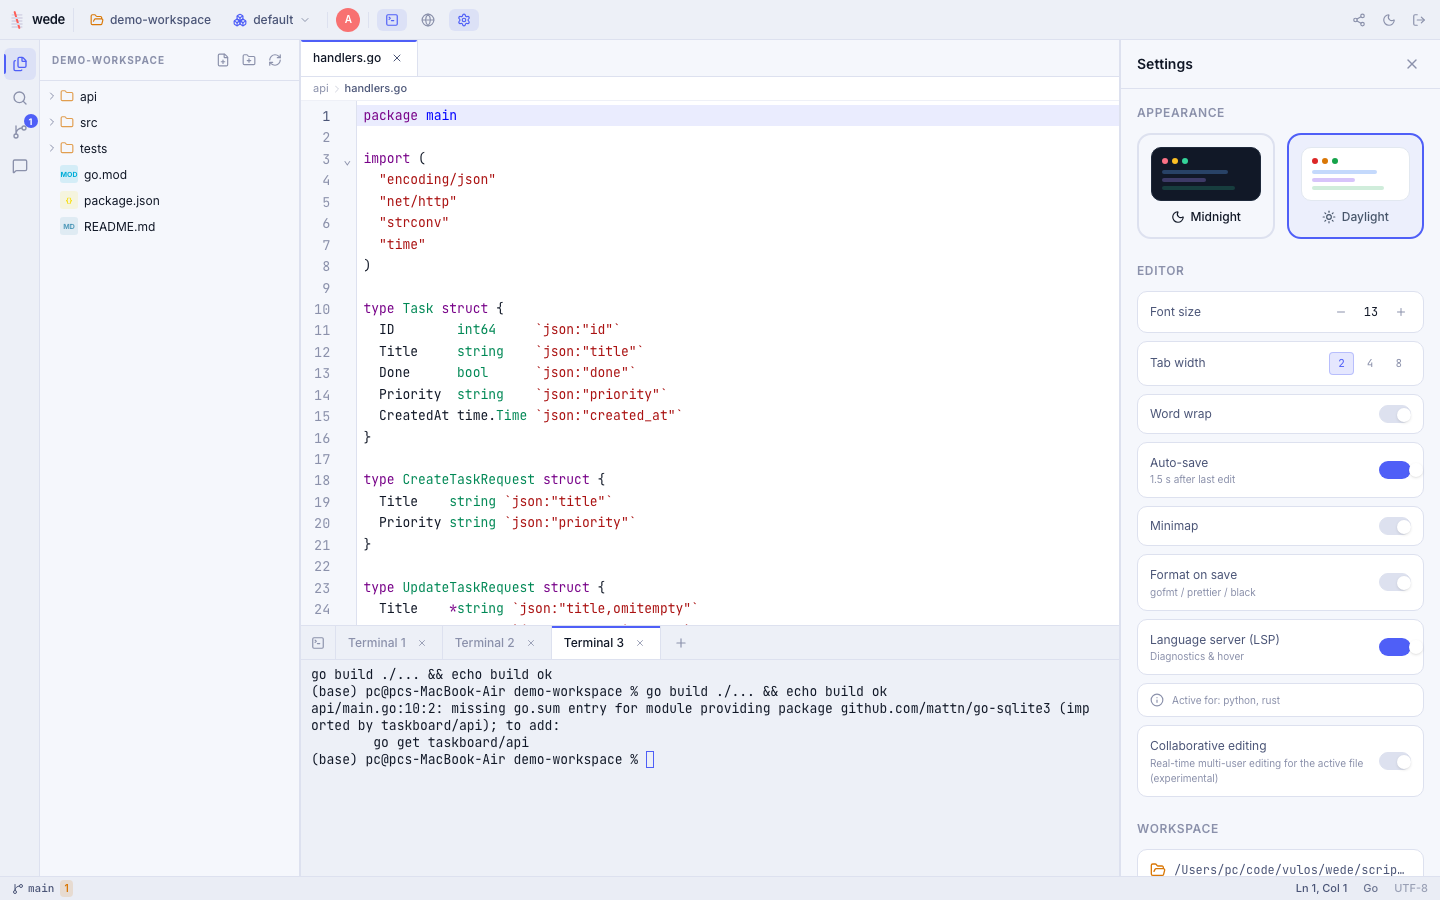
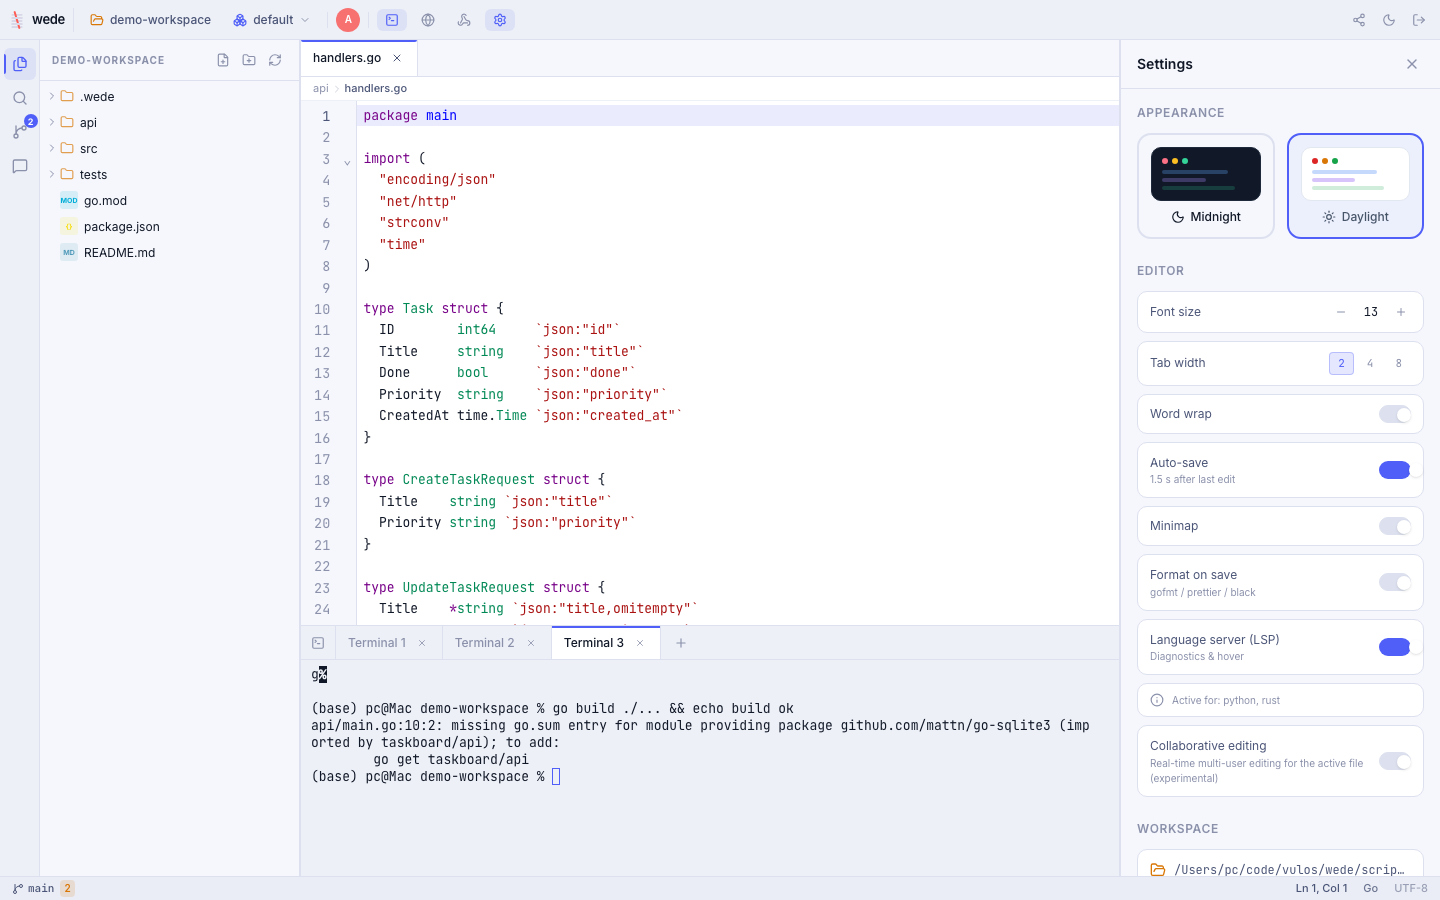
feat: .wede-location picker UI + API-client load fix + screenshots/README
- WedeLocation.jsx: owner-only Settings control to choose which workspace
  folder hosts .wede (lists candidate folders, moves on change); threaded
  workspaceId through Settings. Closes the UI gap on the .wede relocation.
- ApiClient: saved requests are stored/read as JSON objects (parseReq handles
  object or string) — fixes loading a saved request (was defaulting to GET).
- Screenshotter: seed sample API requests + environment; new apiclient.png
  (real GitHub API request -> 200 JSON response, populated collections).
- README: embed apiclient.png + add the API Client feature row.

Changed region(s): [[0.2188, 0.7467, 0.75, 0.8711], [0.0312, 0.1867, 0.125, 0.28]]

diff --git a/src/components/WedeLocation.jsx b/src/components/WedeLocation.jsx
@@ -1,0 +1,65 @@
+import { useState, useEffect, useCallback } from 'react'
+import { FolderCog, Check, Loader2 } from 'lucide-react'
+
+// WedeLocation — owner-only control to choose which workspace folder hosts the
+// .wede directory (chat history, saved API requests). Changing it moves .wede.
+export default function WedeLocation({ workspaceId, authFetch }) {
+  const [state, setState] = useState(null) // { host, dir, folders }
+  const [busy, setBusy] = useState(false)
+  const [err, setErr] = useState(null)
+  const [saved, setSaved] = useState(false)
+
+  const base = workspaceId ? `/api/workspaces/${encodeURIComponent(workspaceId)}/wede-location` : null
+
+  const load = useCallback(async () => {
+    if (!base) return
+    try {
+      const r = await authFetch(base)
+      setState(await r.json())
+    } catch { /* leave hidden */ }
+  }, [base, authFetch])
+
+  useEffect(() => { load() }, [load])
+
+  const setHost = async (host) => {
+    if (!base) return
+    setBusy(true); setErr(null); setSaved(false)
+    try {
+      const r = await authFetch(base, {
+        method: 'PUT', headers: { 'Content-Type': 'application/json' }, body: JSON.stringify({ host }),
+      })
+      const data = await r.json()
+      if (!r.ok) setErr(data.error || 'Failed to move')
+      else { setState(data); setSaved(true); setTimeout(() => setSaved(false), 1500) }
+    } catch { setErr('Request failed') } finally { setBusy(false) }
+  }
+
+  if (!state) return null
+
+  return (
+    <div>
+      <h3 className="text-xs font-semibold uppercase tracking-wider text-text-muted mb-3 flex items-center gap-1.5">
+        <FolderCog className="w-3.5 h-3.5" /> Workspace data (.wede)
+      </h3>
+      <p className="text-[11px] text-text-muted leading-relaxed mb-2">
+        Chat history and saved API requests live in <code className="text-text-secondary">.wede/</code>.
+        Pick which project folder hosts it so it commits with that repo — wede moves the contents when you change this.
+      </p>
+      <div className="flex items-center gap-2">
+        <select
+          value={state.host || ''}
+          onChange={(e) => setHost(e.target.value)}
+          disabled={busy}
+          className="flex-1 bg-bg-input border border-border rounded-md px-2.5 py-1.5 text-[12px] text-text-primary focus:outline-none focus:border-accent/60 disabled:opacity-50"
+        >
+          <option value="">/ (workspace root)</option>
+          {(state.folders || []).map((f) => <option key={f} value={f}>{f}/</option>)}
+        </select>
+        {busy && <Loader2 className="w-4 h-4 text-text-muted animate-spin shrink-0" />}
+        {saved && <Check className="w-4 h-4 text-green shrink-0" />}
+      </div>
+      <p className="text-[10px] text-text-muted mt-1.5 font-mono truncate" title={state.dir}>{state.dir}</p>
+      {err && <div className="text-[11px] text-red mt-1">{err}</div>}
+    </div>
+  )
+}

diff --git a/src/components/ApiClient.jsx b/src/components/ApiClient.jsx
@@ -24,6 +24,14 @@ const blankRequest = () => ({
   body: { type: 'none', content: '', form: [] },
 })
 
+// The server returns a saved request as a JSON object (RawMessage); tolerate a
+// string too in case of older/hand-written files.
+function parseReq(raw) {
+  if (!raw) return {}
+  if (typeof raw === 'object') return raw
+  try { return JSON.parse(raw) } catch { return {} }
+}
+
 function subst(str, vars) {
   return (str || '').replace(/\{\{([^}]+)\}\}/g, (_, k) => {
     const key = k.trim()
@@ -109,8 +117,7 @@ function TreeNode({ node, depth, onOpen, onDelete, readOnly, activePath }) {
       </div>
     )
   }
-  let m = 'GET'
-  try { m = JSON.parse(node.request || '{}').method || 'GET' } catch { /* ignore */ }
+  const m = parseReq(node.request).method || 'GET'
   return (
     <div className={`flex items-center gap-1.5 px-1 py-1 rounded cursor-pointer group ${activePath === node.path ? 'bg-bg-active' : 'hover:bg-bg-hover'}`}
       style={{ paddingLeft: depth * 12 + 16 }} onClick={() => onOpen(node)}>
@@ -175,7 +182,7 @@ export default function ApiClient({ workspaceId, authFetch, readOnly = false }) 
     }
     await authFetch(`${base}/item`, {
       method: 'PUT', headers: { 'Content-Type': 'application/json' },
-      body: JSON.stringify({ type: 'request', path, request: JSON.stringify({ ...req, name: path.split('/').pop() }) }),
+      body: JSON.stringify({ type: 'request', path, request: { ...req, name: path.split('/').pop() } }),
     })
     load()
   }
@@ -191,12 +198,9 @@ export default function ApiClient({ workspaceId, authFetch, readOnly = false }) 
   }
 
   const openRequest = (node) => {
-    try {
-      const r = JSON.parse(node.request || '{}')
-      setReq({ ...blankRequest(), ...r })
-      setSavePath(node.path.replace(/\.json$/, ''))
-      setResp(null); setErr(null)
-    } catch { /* ignore */ }
+    setReq({ ...blankRequest(), ...parseReq(node.request) })
+    setSavePath(node.path.replace(/\.json$/, ''))
+    setResp(null); setErr(null)
   }
 
   const deleteItem = async (node) => {

diff --git a/src/components/Settings.jsx b/src/components/Settings.jsx
@@ -3,8 +3,9 @@ import { Moon, Sun, FolderOpen, Info, Minus, Plus, X } from 'lucide-react'
 import { useTheme } from '../hooks/useTheme'
 import Logo from './Logo'
 import TunnelSettings from './TunnelSettings'
+import WedeLocation from './WedeLocation'
 
-export default function Settings({ visible, onClose, onOpenFolder, workspace, editorSettings, onEditorSettingsChange, lspAvailable, authFetch, role }) {
+export default function Settings({ visible, onClose, onOpenFolder, workspace, editorSettings, onEditorSettingsChange, lspAvailable, authFetch, role, workspaceId }) {
   const { setTheme, isDark } = useTheme()
 
   // Close on Escape.
@@ -229,6 +230,13 @@ export default function Settings({ visible, onClose, onOpenFolder, workspace, ed
             </button>
           </div>
         </div>
+
+        {/* Workspace data location (owner only) */}
+        {role === 'owner' && authFetch && workspaceId && (
+          <div>
+            <WedeLocation workspaceId={workspaceId} authFetch={authFetch} />
+          </div>
+        )}
 
         {/* Public access (owner only) */}
         {role === 'owner' && authFetch && (

diff --git a/src/components/IDE.jsx b/src/components/IDE.jsx
@@ -737,6 +737,7 @@ export default function IDE({ token, authFetch, onLogout, workspace, recents, on
                 onClose={() => setShowSettings(false)}
                 authFetch={authFetch}
                 role={role}
+                workspaceId={workspaceId}
                 visible
                 onOpenFolder={() => setShowFolderPicker(true)}
                 workspace={workspace}
@@ -967,6 +968,7 @@ export default function IDE({ token, authFetch, onLogout, workspace, recents, on
                 onClose={() => setShowSettings(false)}
                 authFetch={authFetch}
                 role={role}
+                workspaceId={workspaceId}
                 visible
                 onOpenFolder={() => setShowFolderPicker(true)}
                 workspace={workspace}

diff --git a/README.md b/README.md
@@ -42,14 +42,14 @@ One host serves many people: open multiple projects as **workspaces**, invite ot
 </tr>
 <tr>
 <td><img src="docs/screenshots/git_graph.png" alt="wede visual git commit graph with branches and merges" width="400"><br><em>Git commit graph — branches, merges &amp; refs</em></td>
+<td><img src="docs/screenshots/apiclient.png" alt="wede built-in Postman-style API client" width="400"><br><em>Built-in API client (Postman-style)</em></td>
+</tr>
+<tr>
 <td><img src="docs/screenshots/terminals.png" alt="wede multiple terminals per workspace" width="400"><br><em>Multiple terminals per workspace</em></td>
-</tr>
-<tr>
 <td><img src="docs/screenshots/chat.png" alt="wede live workspace chat with public and private channels" width="400"><br><em>Live chat — public &amp; private channels</em></td>
-<td><img src="docs/screenshots/search.png" alt="wede workspace search panel" width="400"><br><em>Comprehensive search (regex, globs, replace)</em></td>
 </tr>
 <tr>
-<td><img src="docs/screenshots/terminal.png" alt="wede terminal panel" width="400"><br><em>Full PTY terminal</em></td>
+<td><img src="docs/screenshots/search.png" alt="wede workspace search panel" width="400"><br><em>Comprehensive search (regex, globs, replace)</em></td>
 <td><img src="docs/screenshots/settings.png" alt="wede settings panel" width="400"><br><em>Settings — editor, LSP, themes, tunnel</em></td>
 </tr>
 <tr>
@@ -93,6 +93,7 @@ wede turns one machine into a shared workspace for your whole team — no accoun
 | **Git Client** | VS Code-grade: visual commit graph with branches &amp; merges, blame, side-by-side diff, staging + per-hunk staging, cherry-pick / revert / reset / merge, tags, branch management, push/pull/fetch, stash, merge-conflict resolution. |
 | **Comprehensive Search** | Workspace-wide search with regex, case &amp; whole-word toggles, include/exclude globs, context lines, and a filename mode — plus search &amp; replace across files. |
 | **Built-in Browser** | Preview your running web app in an embedded browser tab without leaving the IDE. |
+| **API Client** | Postman-style HTTP client: methods, params, headers, auth (bearer/basic/api-key), JSON/form/raw bodies, environments with `{{variables}}`, and a server-side send (no CORS). Requests are saved as files under `.wede/requests/` — committable and shareable. |
 | **LSP** | Language Server Protocol proxy for diagnostics, hover, completion, and go-to-definition. Supports gopls, typescript-language-server, pylsp, rust-analyzer. |
 | **Format on Save** | Auto-formats on Ctrl/Cmd+S: `gofmt` for Go, `prettier` for JS/TS/CSS/JSON/HTML/Markdown, `black` for Python. |
 | **Image & Binary Preview** | Images render inline with a checkerboard background; other binary files show a size notice instead of garbled editor content. |
